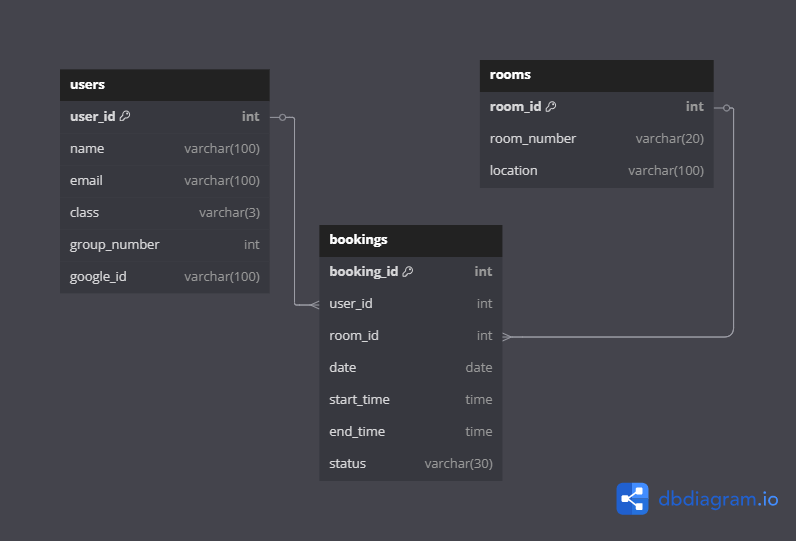
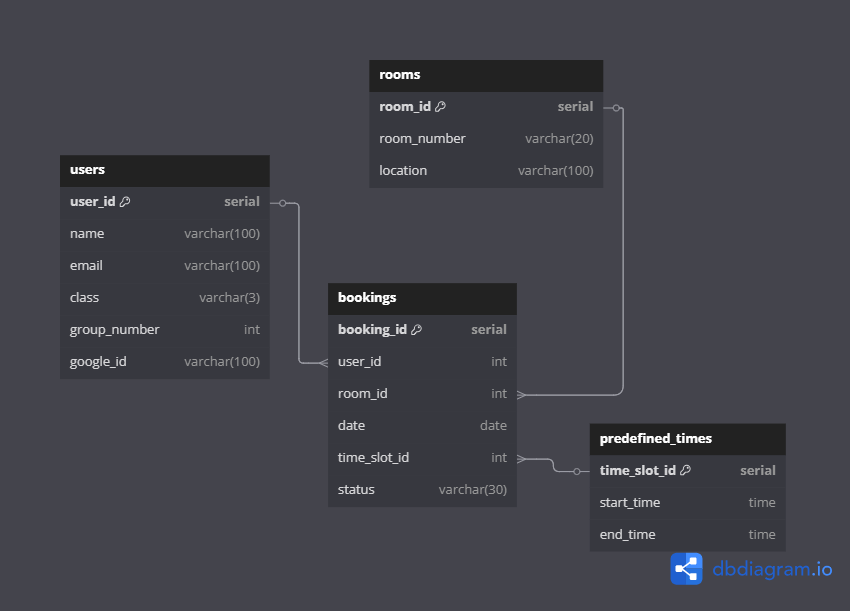
feat: adiciona a etapa 3 da ponderada 1 de programação (banco de dados)

diff --git a/server.js b/server.js
@@ -2,14 +2,11 @@ const express = require('express');
 const app = express();
 const PORT = 3000;
 
-// Middleware para processar JSON
 app.use(express.json());
 
-// Rotas
 const routes = require('./routes/index');
 app.use('/', routes);
 
-// Inicializa o servidor
 app.listen(PORT, () => {
   console.log(`Servidor rodando na porta ${PORT}`);
 });

diff --git a/documentos/WAD.md b/documentos/WAD.md
@@ -83,9 +83,83 @@ Critério de aceite 2 | Atualização - o sistema deverá atualizar a disponibil
 
 ### 3.1. Modelagem do banco de dados  (Semana 3)
 
-*Posicione aqui os diagramas de modelos relacionais do seu banco de dados, apresentando todos os esquemas de tabelas e suas relações. Utilize texto para complementar suas explicações, se necessário.*
+&emsp; A modelagem do banco de dados é uma parte essencial do desenvolvimento de plataformas WEB, pois garante uma estrutura eficiente para o armazenamento e gerenciamento das informações. O banco de dados é responsável por armazenar dados cruciais, como as informações dos usuários, das salas disponíveis e das reservas realizadas. <br>
 
-*Posicione também o modelo físico com o Schema do BD (arquivo .sql)*
+## Modelo Relacional (Lógico)
+&emsp; O modelo relacional do banco de dados descreve a estrutura lógica das informações e como elas se relacionam. Ele é representado por meio de diagramas com tabelas, atributos (colunas) e relacionamentos (chaves primárias e estrangeiras). <br>
+
+<div align="center">
+<figcaption><strong>Figura 2 - Modelo Lógico do Banco de Dados</strong></figcaption>
+<br>
+<img src="../assets/Banco de Dados/modelo-banco.png" width="100%">
+<br>
+<em>Fonte: Material produzido pela autora (2025)</em>
+</div>
+
+&emsp; O modelo relacional da plataforma RX é composto por:
+- **users**: armazena informações dos usuários (nome, e-mail, turma, grupo, etc.).
+
+- **rooms**: contém os dados das salas de estudo disponíveis para reserva.
+
+- **predefined_times**: define os horários padronizados que os usuários podem escolher ao realizar reservas.
+
+- **bookings**: representa cada reserva feita por um usuário para uma sala, em uma data e horário específicos.
+
+### Relações entre as tabelas
+A tabela bookings se relaciona com:
+
+- users por meio da coluna user_id: cada reserva pertence a um usuário.
+
+- rooms por meio da coluna room_id: cada reserva está associada a uma sala específica.
+
+- predefined_times por meio da coluna time_slot_id: cada reserva ocorre dentro de um horário predefinido.
+
+&emsp; Essas relações garantem integridade referencial, ou seja, impedem que sejam registradas reservas para salas inexistentes, usuários inválidos ou horários que não estão no sistema. <br>
+
+## Modelo Físico
+&emsp; O modelo físico é a implementação concreta do modelo relacional. Ele traduz a estrutura lógica para comandos SQL.
+
+[Acesse o modelo físico da plataforma RX (init.sql)](../scripts/init.sql)
+
+```sql
+-- init.sql
+CREATE TABLE users (
+  user_id SERIAL PRIMARY KEY,
+  name VARCHAR(100),
+  email VARCHAR(100) UNIQUE,
+  class VARCHAR(3),
+  group_number INT,
+  google_id VARCHAR(100) UNIQUE
+);
+
+CREATE TABLE rooms (
+  room_id SERIAL PRIMARY KEY,
+  room_number VARCHAR(20) UNIQUE,
+  location VARCHAR(100)
+);
+
+CREATE TABLE predefined_times (
+  time_slot_id SERIAL PRIMARY KEY,
+  start_time TIME,
+  end_time TIME
+);
+
+CREATE TABLE bookings (
+  booking_id SERIAL PRIMARY KEY,
+  user_id INT,
+  room_id INT,
+  date DATE,
+  time_slot_id INT,
+  status VARCHAR(30),
+
+  FOREIGN KEY (user_id) REFERENCES users(user_id) ON DELETE CASCADE,
+  FOREIGN KEY (room_id) REFERENCES rooms(room_id) ON DELETE CASCADE,
+  FOREIGN KEY (time_slot_id) REFERENCES predefined_times(time_slot_id)
+);
+```
+
+
+&emsp; A modelagem do banco de dados, tanto em seu nível relacional quanto físico, é fundamental para o funcionamento correto e eficiente da plataforma RX. O modelo relacional organiza os dados e define as regras lógicas entre as entidades, enquanto o modelo físico implementa essas regras no banco de dados real. Com essa estrutura, o RX consegue oferecer um sistema confiável e escalável de reserva de salas, com validações automáticas e integridade dos dados garantida por meio das relações entre as tabelas. <br>
 
 ### 3.1.1 BD e Models (Semana 5)
 *Descreva aqui os Models implementados no sistema web*

diff --git a/readme.md b/readme.md
@@ -21,9 +21,8 @@
 
 ## 📝 Descrição
 
-&emsp; O RX é uma plataforma desenvolvida para otimizar o processo de reserva das salas de estudo no Inteli, conhecidas como “casinhas”. Criado para atender alunos, professores e funcionários, o sistema facilita a locação desses espaços de forma rápida e eficiente. <br>
-&emsp; Com uma interface simples e intuitiva, os usuários conseguem visualizar a disponibilidade das salas em tempo real e fazer reservas em blocos de uma hora. A plataforma permite editar ou cancelar agendamentos e envia notificações para lembrar os usuários de seus compromissos, reduzindo o número de faltas. <br>
-&emsp; Entre os diferenciais, o RX também oferece um sistema de alertas para o caso de cancelamentos, permitindo que os usuários sejam avisados quando uma sala desejada estiver novamente disponível. Isso reduz a ociosidade e melhora o aproveitamento dos espaços.<br>
+&emsp; O RX é uma plataforma desenvolvida para otimizar o processo de reserva das salas de estudo no Inteli, conhecidas como “casinhas”. Criado para atender alunos, professores e funcionários, o sistema facilita a locação desses espaços de forma rápida e eficiente. Com uma interface simples e intuitiva, os usuários conseguem visualizar a disponibilidade das salas em tempo real e fazer reservas em blocos de uma hora. A plataforma permite editar ou cancelar agendamentos e envia notificações para lembrar os usuários de seus compromissos, reduzindo o número de faltas. <br>
+&emsp; Entre os diferenciais, o RX também oferece um sistema de alertas para o caso de cancelamentos, permitindo que os usuários sejam avisados quando uma sala desejada estiver novamente disponível. Isso reduz a ociosidade e melhora o aproveitamento dos espaços. A plataforma também permite que o usuário escolha o horário desejado para a reserva, e, com base nessa seleção, as salas disponíveis para aquele horário específico são exibidas, garantindo um processo de reserva mais rápido e sem conflitos. <br>
 &emsp; O RX contribui diretamente para um ambiente acadêmico mais organizado, otimizando recursos e promovendo produtividade entre os membros da comunidade Inteli. <br>
 
 ## 📝 Link de demonstração
